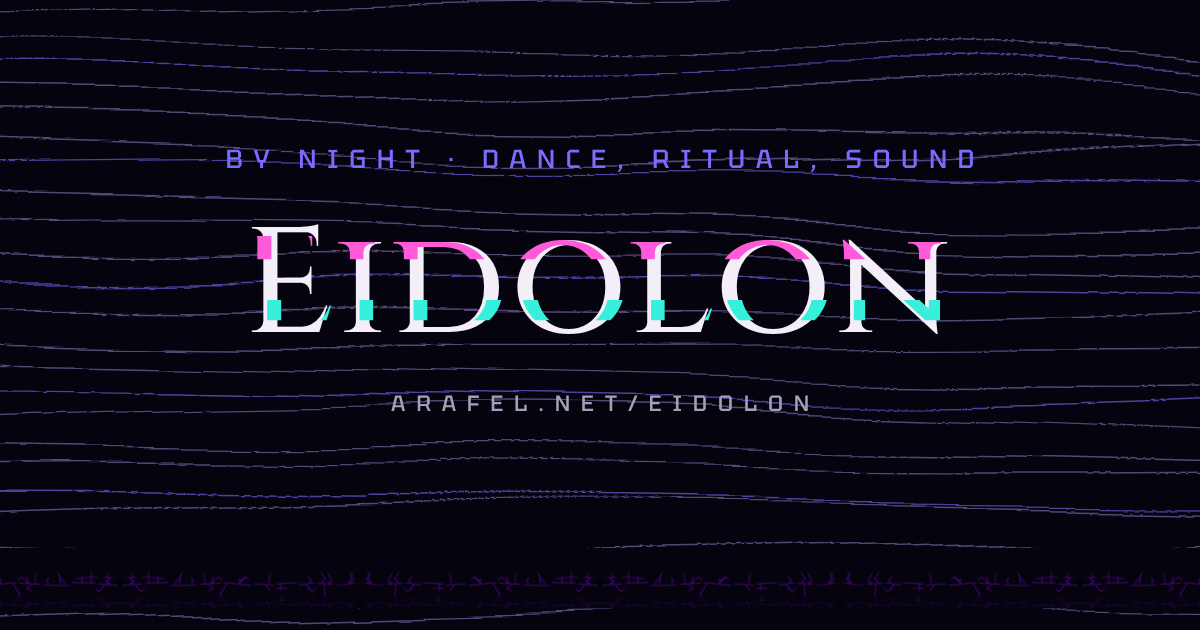
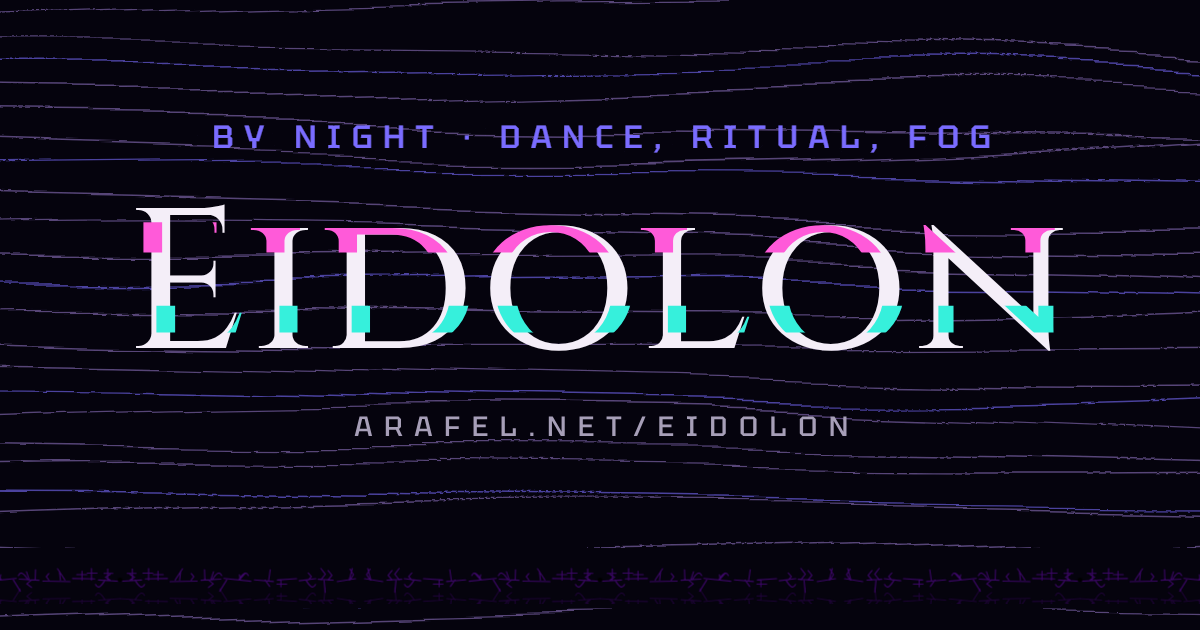
Square button in canon, Eidolon copy and centered body, path addresses
- Design system: add ei-btn--square, the one framed button, in the voice's
  nav face with the title's hit on hover; Doto at 17px in Signal
- Eidolon: fog replaces sound, Enter Rite Tec line under the header, body
  centered on the page, Rite Step becomes events and collaborations
- Rite Tec: Practice videos button on Style, linked headings open their tab
  and clear the phone tab bar, music credits link to Bandcamp
- Header and footer show arafel.net/eidolon, not the unresolved subdomains
- Components gallery is served by the dev server only
- Link previews: larger titles on all five images

diff --git a/src/styles/site.css b/src/styles/site.css
@@ -24,6 +24,7 @@
 div.ph-edge .frieze { padding-top: 0; margin-top: -17px; }
 div.ph-edge .ei-prismsep { height: 48px; margin: -24px 0 0; }
 .ph-edge--prism { padding-bottom: clamp(40px, 5vw, 64px); }
+
 /* A spirit on the right of the header band, on wide screens only; it swaps poses in place. */
 .ph-spirit { position: absolute; z-index: 1; right: clamp(64px, 12vw, 260px); top: 50%; transform: translateY(-50%); height: 72%; max-height: 420px; width: auto; aspect-ratio: 200 / 260; display: block; pointer-events: none; }
 @media (max-width: 1099px) { .ph-spirit { display: none; } }
@@ -51,7 +52,20 @@ div.ph-edge .ei-prismsep { height: 48px; margin: -24px 0 0; }
 .doc strong { color: var(--bone); font-weight: 600; }
 .doc a { color: var(--signal); text-decoration-thickness: 1px; text-underline-offset: 3px; }
 .doc a:hover { color: var(--trace); }
+/* A button in reading text keeps its own color, not the link's. */
+.doc a.ei-btn--square { color: var(--signal); text-decoration: none; }
+.doc a.ei-btn--square:hover { color: var(--bone); }
+/* One line under the header band: a sentence and a button, centered on the page. */
+.pg-cta { padding-block: 0 clamp(40px, 5vw, 64px); }
+.pg-cta__row { margin: 0; display: flex; flex-wrap: wrap; align-items: center; justify-content: center; text-align: center; gap: 16px 40px; font-family: var(--v-read); color: var(--ink); font-size: clamp(20px, 1.1vw + 14px, 32px); line-height: 1.3; }
+.pg-cta__row .ei-btn { padding: 16px 44px; font-size: clamp(14px, .3vw + 12px, 17px); line-height: 22px; }
+/* The same block inside reading text, a size down. */
+.doc .pg-cta__row--small { margin-top: 32px; gap: 16px 32px; font-size: clamp(17px, .4vw + 15px, 20px); }
+.pg-cta__row--small .ei-btn { padding: 12px 32px; font-size: 13px; line-height: 18px; }
 .doc h2 { margin: 64px 0 0; font-family: var(--v-sub); font-weight: var(--v-sub-w); color: var(--bone); font-size: clamp(30px, 1.8vw + 22px, 52px); line-height: 1.05; }
+.doc h3, .doc h4 { scroll-margin-top: 32px; }
+/* Below 900px the Rite Tec tabs are a sticky bar, 48px tall; a linked heading lands clear of it. */
+@media (max-width: 900px) { .doc h3, .doc h4 { scroll-margin-top: 64px; } }
 .doc h3 { margin: 64px 0 0; font-family: var(--v-sub); font-weight: var(--v-sub-w); color: var(--trace); font-size: clamp(22px, .8vw + 18px, 30px); line-height: 1.15; }
 .doc h4 { margin: 40px 0 0; font: 500 13px/18px var(--v-nav); letter-spacing: var(--v-nav-ls); text-transform: uppercase; color: var(--trace); }
 /* Rite Tec videos: vertical clips in the reading column, no frame. */
@@ -82,6 +96,9 @@ div.ph-edge .ei-prismsep { height: 48px; margin: -24px 0 0; }
   .doc td:first-child { font-size: 1.15em; padding-bottom: 8px; }
   .doc td[data-label]:not(:first-child)::before { content: attr(data-label); display: block; font: 500 11px/16px var(--v-nav); letter-spacing: var(--v-nav-ls); text-transform: uppercase; color: var(--ink-muted); }
 }
+/* A centered page: the body on the page's axis; tables keep their left-aligned columns. */
+.pg--center .doc { max-width: 720px; margin-inline: auto; text-align: center; }
+.pg--center .doc table { text-align: left; }
 
 /* Body of a page below the header. */
 .pg { padding-bottom: 96px; }

diff --git a/design-system/eidolon-v1/css/eidolon.css b/design-system/eidolon-v1/css/eidolon.css
@@ -188,6 +188,19 @@ img{max-width:100%}
 .ei-btn--prism[aria-pressed="true"], .ei-btn--prism.is-pressed { font-variation-settings: 'XROT' 30, 'YROT' -35; color: var(--signal); text-shadow: 4px 3px 0 var(--ember); }
 .ei-btn--prism:disabled { font-variation-settings: 'XROT' 0, 'YROT' 0; text-shadow: none; }
 
+/* Square: an outline in the voice's nav face. Hover is the title's hit: same slices, colors and timing. The frame holds still. */
+.ei-btn--square { box-sizing: border-box; padding: 12px 32px; border: 1px solid var(--signal); color: var(--signal); font: 500 13px/18px var(--v-nav); letter-spacing: var(--v-nav-ls); text-transform: uppercase; transition: none; }
+.ei-btn--square:hover, .ei-btn--square.is-hover { color: var(--bone); border-color: var(--trace); }
+.ei-btn--square .ei-btn__label::before { color: var(--signal); clip-path: inset(14% 0 62% 0); }
+.ei-btn--square .ei-btn__label::after { color: var(--led); clip-path: inset(58% 0 22% 0); }
+.ei-btn--square:hover .ei-btn__label::before, .ei-btn--square.is-hover .ei-btn__label::before,
+.ei-btn--square:hover .ei-btn__label::after, .ei-btn--square.is-hover .ei-btn__label::after { animation: ei-hit calc(var(--beat-128) * 4) steps(1, end) infinite; }
+.ei-btn--square:hover .ei-btn__label::after, .ei-btn--square.is-hover .ei-btn__label::after { animation-delay: var(--snap); }
+.ei-btn--square[aria-pressed="true"], .ei-btn--square.is-pressed { color: var(--ember); border-color: var(--ember); }
+.ei-btn--square:disabled { color: var(--line-strong); border-color: var(--line); }
+.ei-btn--square:disabled .ei-btn__label::before, .ei-btn--square:disabled .ei-btn__label::after { animation: none; opacity: 0; }
+[data-voice="signal"] .ei-btn--square { font-size: 17px; font-weight: 800; font-variation-settings: 'wght' 800, 'ROND' 0; }
+
 /* ---------- Lineup: the network as a running order, three typographic settings ---------- */
 .ei-lineup { list-style: none; margin: 0; padding: 0; }
 .ei-lineup__item { position: relative; display: grid; text-decoration: none; color: var(--ink); }
@@ -537,6 +550,7 @@ img{max-width:100%}
   .ei-seam img:first-child { clip-path: inset(0 0 50% 0); } .ei-seam img:last-child { clip-path: inset(50% 0 0 0); }
 }
 @container (max-width: 720px) { .ei-split .day { padding-bottom: clamp(32px, 6vw, 72px); } .ei-split .night { padding-top: clamp(32px, 6vw, 72px); } }
+
 
 
 

diff --git a/src/worlds.ts b/src/worlds.ts
@@ -7,7 +7,7 @@ export type WorldId = "architect" | "eidolon" | "rite-tec";
 export interface World {
   id: WorldId;
   label: string; // the worlds switch: Day, Night, Rite
-  name: string; // brand text before the domain
+  name: string; // the world's name in links
   theme: string; // data-theme on <html>
   dot: string; // data-theme of the switch dot
   voice: string; // data-voice on <html>
@@ -32,4 +32,9 @@ export function world(id: WorldId): World {
 /** Link to a page inside a world, e.g. worldHref("architect", "blog/"). */
 export function worldHref(id: WorldId, page = ""): string {
   return world(id).base + page.replace(/^\//, "");
+}
+
+/** The path shown after the domain, e.g. "/eidolon". */
+export function worldPath(id: WorldId): string {
+  return world(id).base.replace(/\/$/, "");
 }

diff --git a/src/worlds.test.ts b/src/worlds.test.ts
@@ -1,5 +1,5 @@
 import { describe, expect, it } from "vitest";
-import { WORLDS, world, worldHref } from "./worlds";
+import { WORLDS, world, worldHref, worldPath } from "./worlds";
 
 describe("worlds", () => {
   it("links to a world's home", () => {
@@ -8,6 +8,10 @@ describe("worlds", () => {
 
   it("joins a page without doubling the slash", () => {
     expect(worldHref("architect", "/blog/")).toBe("/architect/blog/");
+  });
+
+  it("shows a world as a path on the domain", () => {
+    expect(worldPath("eidolon")).toBe("/eidolon");
   });
 
   it("keeps Rite palettes inside Rite Tec", () => {

diff --git a/src/content/pages/eidolon.md b/src/content/pages/eidolon.md
@@ -1,15 +1,16 @@
 ---
 title: Eidolon · Arafel
-description: The night half. Eidolon, the art project, and Rite Step nights.
-kicker: By night · dance, ritual, sound
+description: The night half. Eidolon, the art project, and the events and collaborations.
+kicker: By night · dance, ritual, fog
 heading: Eidolon
 lede: The phantom double that steps into the fog when the drawing board closes.
+cta: Rite Tec, the style I develop and dance as Eidolon.
+cta_label: Enter Rite Tec
 ---
 
-This page is in work. It will hold the art project, the pieces and the Rite Step nights.
+This page is in work. It will hold the art project: pieces, events, collaborations.
 
 | | |
 | --- | --- |
 | **Pieces** | Performances danced as a ritual in the fog. Coming soon. |
-| **Rite Step** | Nights for dark electronic music and the dance that answers it. Coming soon. |
-| **Rite Tec** | The style behind it. [Read about Rite Tec](/rite-tec/). |
+| **Events & collaborations** | Nights for dark electronic music and the dance that answers it. Coming soon. |

diff --git a/src/content/rite-tec/practice.md b/src/content/rite-tec/practice.md
@@ -51,7 +51,7 @@ A rod of 3 to 5 kg is held as a third point beside the two feet. It gives the st
 
 <p class="rt-shorts"><span>Shorts</span><a href="https://youtube.com/shorts/uxuN8er56OU" target="_blank" rel="noopener">Part 1 · The Axis</a><span class="soon">Part 2 · Steps</span><span class="soon">Part 3 · Levels</span></p>
 
-Music: art.ic, Synthethic Movements (ABSENCE). More rod work follows.
+Music: [art.ic, Synthethic Movements (ABSENCE)](https://absencetechno.bandcamp.com/track/synthethic-movements). More rod work follows.
 
 ### Empty hand
 
@@ -62,4 +62,4 @@ Legs, hands and drama, without the rod.
 <figcaption>Part 1 · Fusion</figcaption>
 </figure>
 
-Music: art.ic, Synthethic Movements (ABSENCE).
+Music: [art.ic, Synthethic Movements (ABSENCE)](https://absencetechno.bandcamp.com/track/synthethic-movements).

diff --git a/src/content/pages/home.md b/src/content/pages/home.md
@@ -11,6 +11,6 @@ This is the home of my two halves. By day I design the systems underneath: platf
 | | |
 | --- | --- |
 | **[Architect](/architect/)** | The day half. Platforms, infrastructure, agentic systems. In work. |
-| **[Eidolon](/eidolon/)** | The night half. Dance, ritual and sound. In work. |
+| **[Eidolon](/eidolon/)** | The night half. Dance, ritual and fog. In work. |
 | **[Rite Tec](/rite-tec/)** | A dark-electronic club dance style, a combination of techniques. |
 | **[About](/about/)** | Both halves side by side. |

diff --git a/src/content/rite-tec/style.md b/src/content/rite-tec/style.md
@@ -8,6 +8,8 @@ Rite Tec is a dark-electronic club dance style: a combination of techniques I ha
 
 It is made for dark electronic music, mostly between 120 and 140 BPM, and for dim, hazy rooms. It is still developing, and I keep testing it on the floor.
 
+<p class="pg-cta__row pg-cta__row--small"><span>See how Rite Tec practice looks like</span><a class="ei-btn ei-btn--square" href="#the-rod"><span class="ei-btn__label" data-text="Practice videos">Practice videos</span></a></p>
+
 ### Mind and body
 
 | | |

diff --git a/src/content/pages/about.md b/src/content/pages/about.md
@@ -13,7 +13,7 @@ day:
 night:
   kicker: By night
   title: Eidolon
-  sub: Dance, ritual, sound
+  sub: Dance, ritual, fog
   text: The phantom double, the figure that steps into the fog when the drawing board closes. The art project and the self it is made for.
   action: { label: The night half, href: /eidolon/ }
 ---
